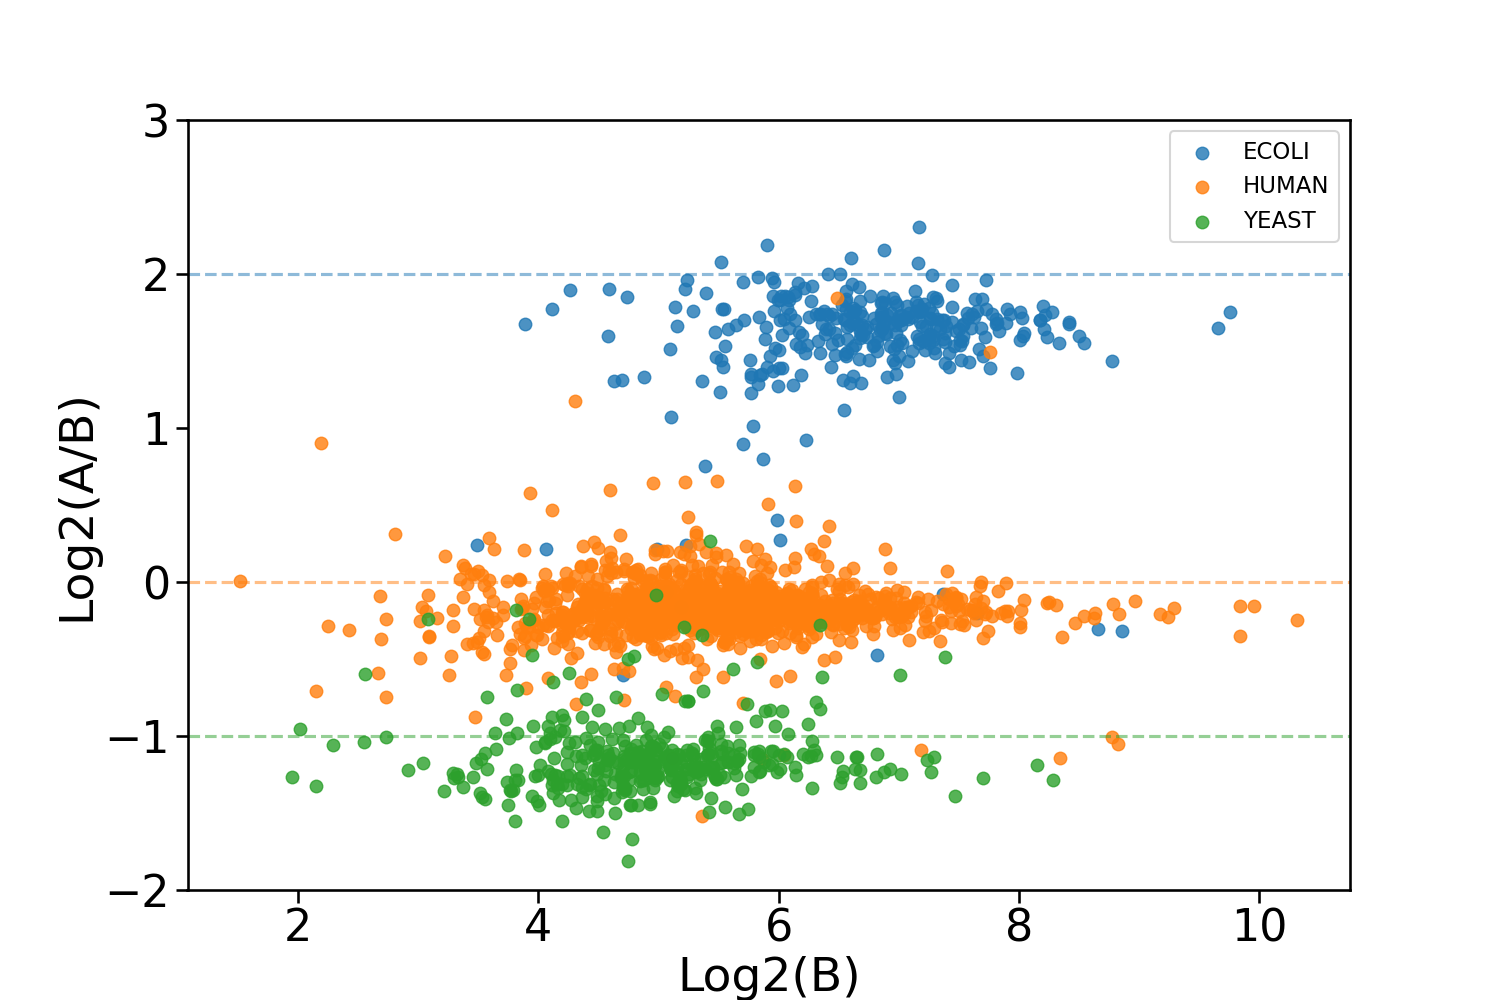
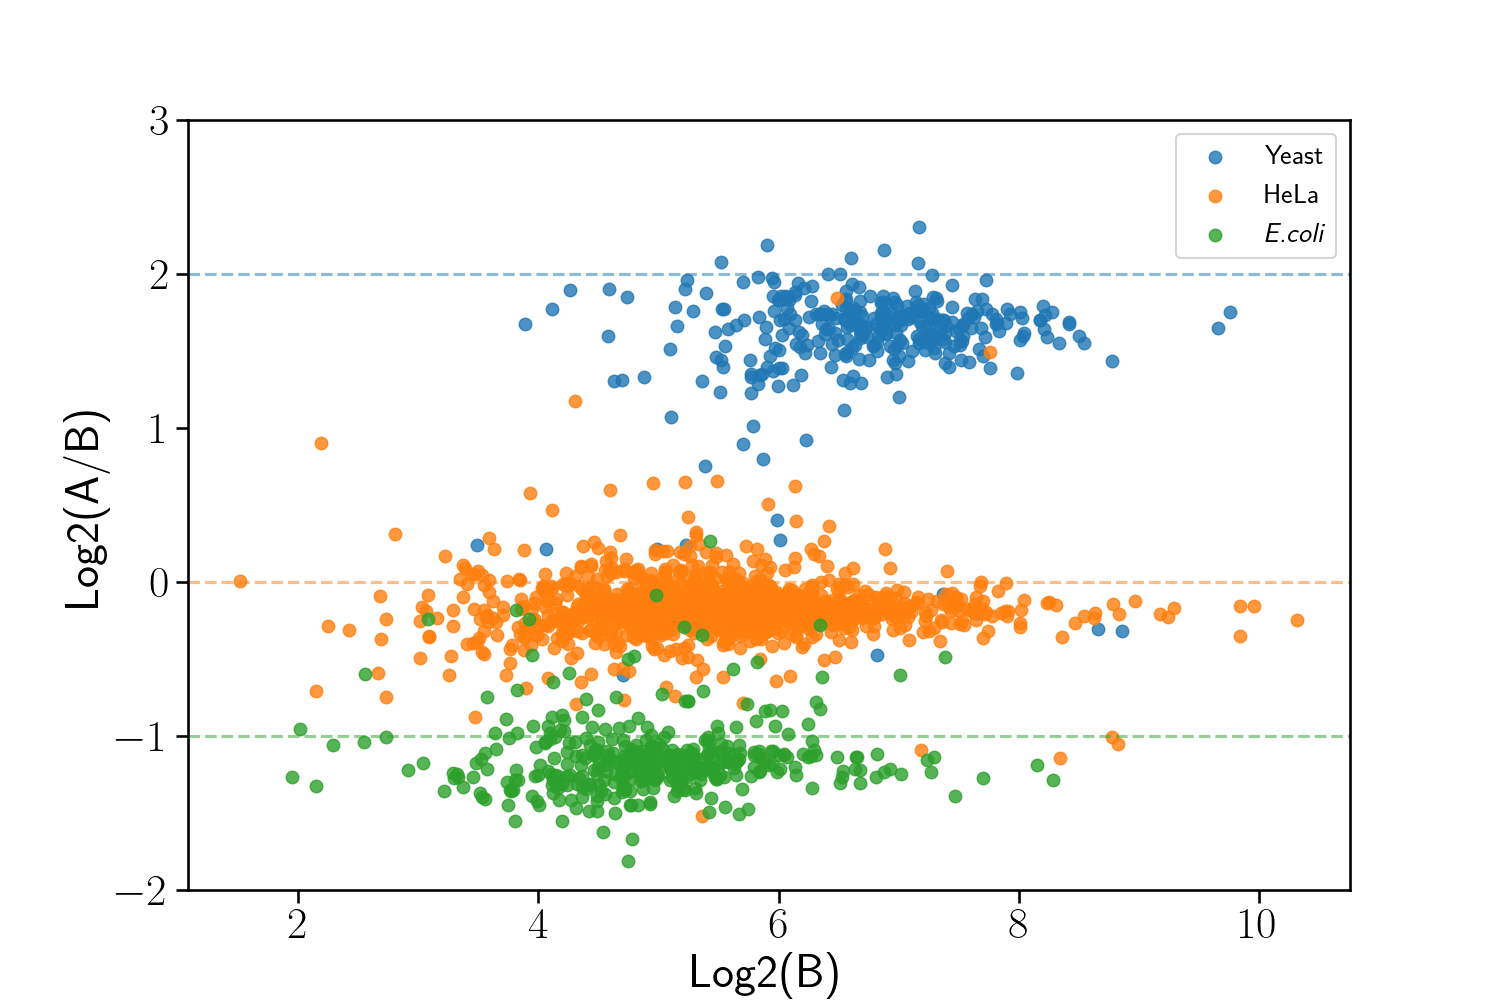
update plots

diff --git a/scripts/clean/plot_triqler_number_of_peptides_per_fc_range.py b/scripts/clean/plot_triqler_number_of_peptides_per_fc_range.py
@@ -48,7 +48,7 @@ def plot_number_of_peptides_per_log2FC_range(result_file, input_file, step = 0.2
     res_ecoli = get_stats(df[df.specie == "ECOLI"], df_inp, step = step) # g
     res_yeast = get_stats(df[df.specie == "YEAST"], df_inp, step = step) # o
     res_human = get_stats(df[df.specie == "HUMAN"], df_inp, step = step) # b
-    sns.lineplot(data = res_ecoli, x = "log2FC", y = "median", linestyle='-', color = "tab:blue", ax = ax, label = r'\textit{E.Coli}')
+    sns.lineplot(data = res_ecoli, x = "log2FC", y = "median", linestyle='-', color = "tab:blue", ax = ax, label = r'\textit{E.coli}')
     sns.lineplot(data = res_yeast, x = "log2FC", y = "median", linestyle='-', color = "tab:green", ax = ax, label = "Yeast")
     sns.lineplot(data = res_human, x = "log2FC", y = "median", linestyle='-', color = "tab:orange", ax = ax, label = "HeLa")
     #plt.legend(labels=["ECOLI","YEAST", "HUMAN"])

diff --git a/scripts/clean/plot_grid_histogram.py b/scripts/clean/plot_grid_histogram.py
@@ -143,13 +143,19 @@ def grid_histogram(output, bins = 50, test = False):
             ax.set_xlabel("")
             ax.xaxis.set_ticklabels([])
         if i >= 6:
-            ax.set_xlabel("log2(A/B)", fontsize=34)
+            ax.set_xlabel("Log2(A/B)", fontsize=34)
         if i > 0:
             ax.get_legend().remove()
+        if i == 0:
+            ax.legend(["Yeast", "HeLa", r"\textit{E.coli}"], prop={"size":20})
+        
+            
         #if test == True:
         #    ax.set_title(str(title))
         i+=1
          
+        #ax.get_legend()
+
         ax.tick_params(axis='x', which='major', labelsize=28)#labelrotation=90)
         ax.tick_params(axis='y', which='major', labelsize=28) 
         

diff --git a/scripts/clean/plot_scatter.py b/scripts/clean/plot_scatter.py
@@ -11,7 +11,10 @@ import matplotlib.pyplot as plt
 import pandas as pd
 import numpy as np
 import argparse
+from matplotlib import rcParams
+
 sns.set_context("talk")
+rcParams["text.usetex"] = True
 
 #df_top3 = pd.read_csv("top3_results.csv", sep = "\t")
 #df = pd.read_csv("msstats_scatter_format_input.csv", sep = "\t")
@@ -41,7 +44,7 @@ def plot_scatterplot(df, output, fdr_threshold = 1.00):
     
     ax.tick_params(axis='x', which='major', labelsize=32)#labelrotation=90)
     ax.tick_params(axis='y', which='major', labelsize=32)
-    
+    ax.legend(["Yeast", "HeLa", r"\textit{E.coli}"], prop = {"size":20}) 
     
     #plt.title("std/mu ratio for log-transformed peptide values")
         
